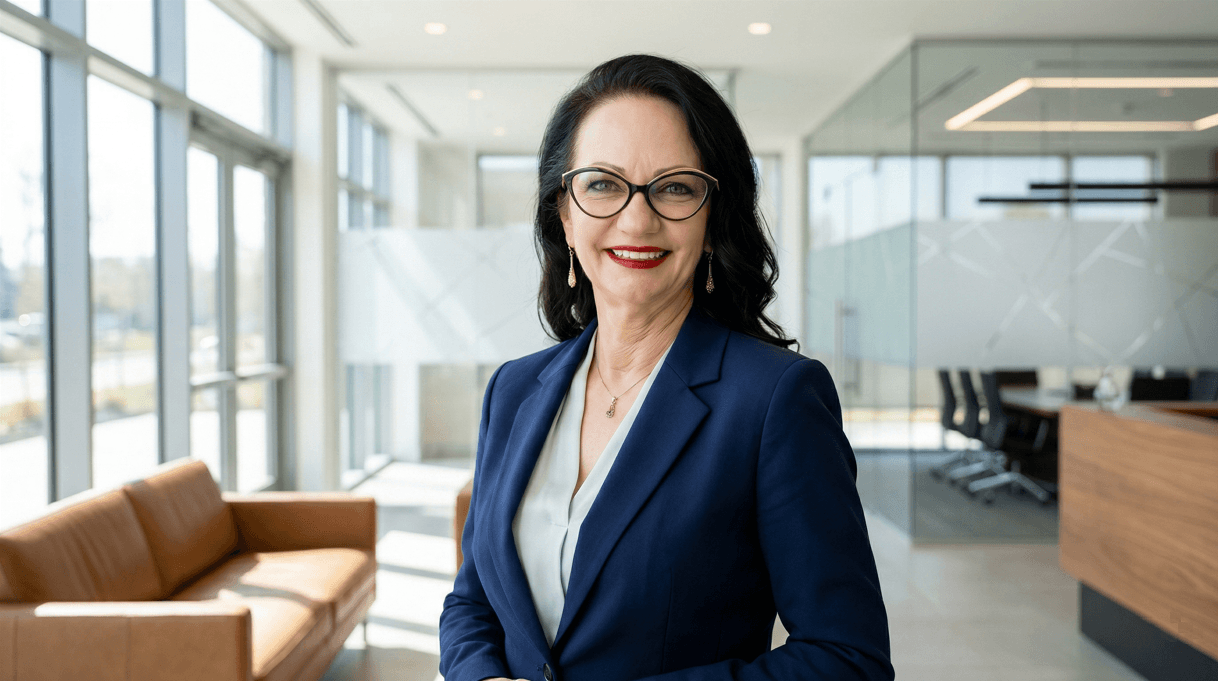
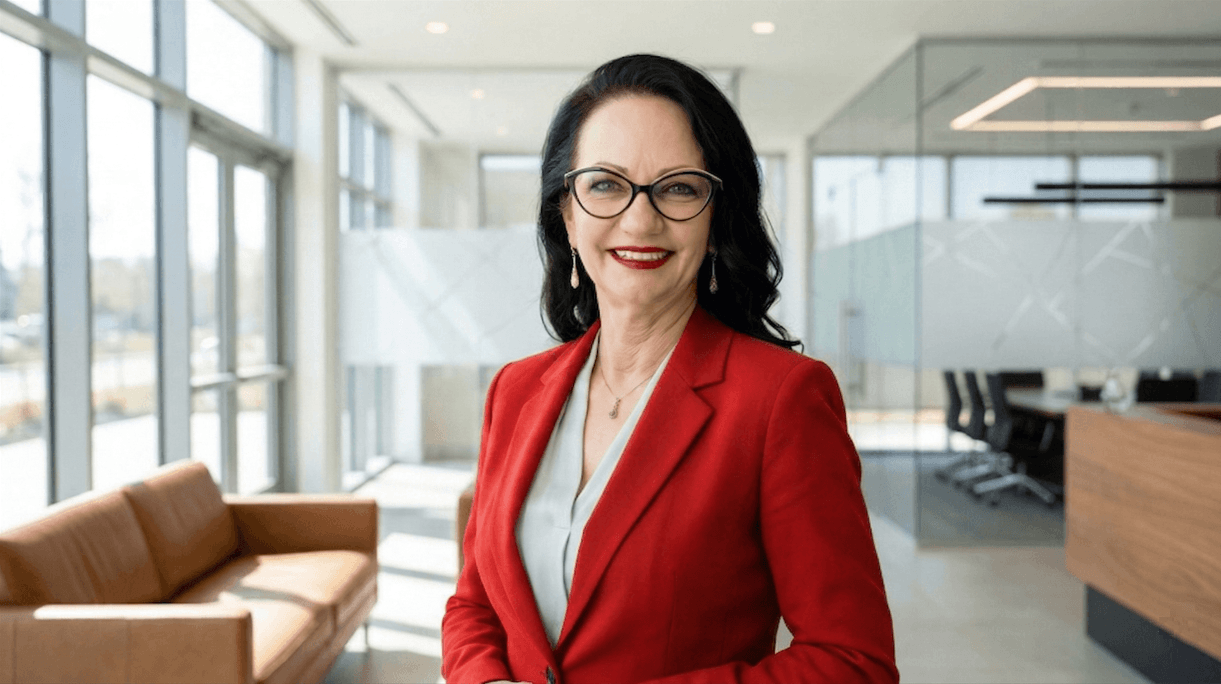
feat: apply Miralive brand colors and add hero images to all pages

diff --git a/app/components/LogoSvg.vue b/app/components/LogoSvg.vue
@@ -1,0 +1,56 @@
+<script setup lang="ts">
+interface Props {
+  size?: 'sm' | 'md' | 'lg'
+}
+
+withDefaults(defineProps<Props>(), {
+  size: 'md',
+})
+
+const sizeClasses: Record<string, string> = {
+  sm: 'h-7',
+  md: 'h-10',
+  lg: 'h-12',
+}
+</script>
+
+<template>
+  <!-- Inline SVG logo — fills adapt via CSS custom properties for dark mode -->
+  <svg
+    viewBox="0 0 320 80"
+    xmlns="http://www.w3.org/2000/svg"
+    class="w-auto"
+    :class="sizeClasses[size]"
+    aria-label="Miralive Ubezpieczenia"
+    role="img"
+  >
+    <!-- Sygnatura: trzy pasy marki -->
+    <rect x="10" y="15" width="10" height="50" rx="1.5" fill="#E31E24" />
+    <rect x="26" y="15" width="10" height="50" rx="1.5" fill="var(--text)" />
+    <rect x="42" y="15" width="10" height="50" rx="1.5" fill="var(--text-muted)" />
+    <!-- Logotyp: MIRALIVE -->
+    <text
+      x="68"
+      y="46"
+      font-family="Segoe UI, Roboto, Helvetica, Arial, sans-serif"
+      font-weight="700"
+      font-size="36"
+      letter-spacing="-0.5"
+      fill="var(--text)"
+    >
+      MIRA<tspan fill="#E31E24">LIVE</tspan>
+    </text>
+    <!-- Tagline: UBEZPIECZENIA -->
+    <text
+      x="70"
+      y="66"
+      font-family="Segoe UI, Roboto, Helvetica, Arial, sans-serif"
+      font-weight="400"
+      font-size="13"
+      letter-spacing="4"
+      fill="var(--text-muted)"
+    >
+      UBEZPIECZENIA
+    </text>
+  </svg>
+</template>

diff --git a/app/assets/css/main.css b/app/assets/css/main.css
@@ -6,31 +6,31 @@
 
 /* === LIGHT MODE (default) === */
 :root {
-  /* Brand: Navy #1E3A5F — contrast on white ~8.5:1 ✓ WCAG AA */
-  --brand: #1E3A5F;
-  --brand-hover: #152D4A;
-  --brand-light: #5B8DB8;
-  --brand-subtle: #EBF2F8;
+  /* Brand: Miralive Red #E31E24 — contrast on white ~5.0:1 ✓ WCAG AA */
+  --brand: #E31E24;
+  --brand-hover: #C41A1F;
+  --brand-light: #F05055;
+  --brand-subtle: #FEF2F2;
   --bg: #FFFFFF;
-  --bg-alt: #F1F5F9;
+  --bg-alt: #F8F8F8;
   --card: #FFFFFF;
-  --card-border: #E2E8F0;
-  --nav-border: #E2E8F0;
-  --text: #0F172A;
-  --text-muted: #475569;
+  --card-border: #E8E8E8;
+  --nav-border: #E8E8E8;
+  --text: #1A1A1A;
+  --text-muted: #555555;
 }
 
 .dark {
-  /* Brand light on #121212 — contrast ~5.2:1 ✓ WCAG AA */
-  --brand: #5B8DB8;
-  --brand-hover: #4A7DA8;
+  /* Brand lighter red on #121212 — contrast ~5.2:1 ✓ WCAG AA */
+  --brand: #F05055;
+  --brand-hover: #E31E24;
   --bg: #121212;
   --bg-alt: #1C1C1C;
   --card: #1E1E1E;
   --card-border: #2D2D2D;
   --nav-border: #2D2D2D;
-  --text: #F1F5F9;
-  --text-muted: #94A3B8;
+  --text: #F1F1F1;
+  --text-muted: #999999;
 }
 
 /* === TAILWIND THEME MAPPING === */
@@ -54,13 +54,13 @@
 /* Hero mesh gradient */
 .hero-mesh {
   background:
-    radial-gradient(ellipse 80% 50% at 50% -20%, rgba(30, 58, 95, 0.12), transparent),
-    radial-gradient(ellipse 60% 40% at 80% 50%, rgba(30, 58, 95, 0.06), transparent);
+    radial-gradient(ellipse 80% 50% at 50% -20%, rgba(227, 30, 36, 0.07), transparent),
+    radial-gradient(ellipse 60% 40% at 80% 50%, rgba(51, 51, 51, 0.04), transparent);
 }
 .dark .hero-mesh {
   background:
-    radial-gradient(ellipse 80% 50% at 50% -20%, rgba(91, 141, 184, 0.1), transparent),
-    radial-gradient(ellipse 60% 40% at 80% 50%, rgba(91, 141, 184, 0.05), transparent);
+    radial-gradient(ellipse 80% 50% at 50% -20%, rgba(240, 80, 85, 0.08), transparent),
+    radial-gradient(ellipse 60% 40% at 80% 50%, rgba(153, 153, 153, 0.04), transparent);
 }
 
 /* Glassmorphism nav */
@@ -76,22 +76,22 @@
 
 /* Icon glass button */
 .icon-glass {
-  background: rgba(30, 58, 95, 0.06);
+  background: rgba(227, 30, 36, 0.07);
   border-radius: 9999px;
   display: flex;
   align-items: center;
   justify-content: center;
 }
 .dark .icon-glass {
-  background: rgba(91, 141, 184, 0.1);
+  background: rgba(240, 80, 85, 0.12);
 }
 
 /* Brand glow shadow on CTA */
 .shadow-glow {
-  box-shadow: 0 4px 20px rgba(30, 58, 95, 0.25);
+  box-shadow: 0 4px 20px rgba(227, 30, 36, 0.28);
 }
 .dark .shadow-glow {
-  box-shadow: 0 4px 20px rgba(91, 141, 184, 0.2);
+  box-shadow: 0 4px 20px rgba(240, 80, 85, 0.22);
 }
 
 /* Pulsing dot (open/closed status) */
@@ -120,15 +120,15 @@
   animation: pulse-ring 2.5s ease-in-out infinite;
 }
 @keyframes pulse-ring {
-  0%, 100% { box-shadow: 0 0 0 0 rgba(30, 58, 95, 0.3); }
-  50% { box-shadow: 0 0 0 8px rgba(30, 58, 95, 0); }
+  0%, 100% { box-shadow: 0 0 0 0 rgba(227, 30, 36, 0.35); }
+  50% { box-shadow: 0 0 0 8px rgba(227, 30, 36, 0); }
 }
 .dark .pulse-brand {
   animation: pulse-ring-dark 2.5s ease-in-out infinite;
 }
 @keyframes pulse-ring-dark {
-  0%, 100% { box-shadow: 0 0 0 0 rgba(91, 141, 184, 0.3); }
-  50% { box-shadow: 0 0 0 8px rgba(91, 141, 184, 0); }
+  0%, 100% { box-shadow: 0 0 0 0 rgba(240, 80, 85, 0.35); }
+  50% { box-shadow: 0 0 0 8px rgba(240, 80, 85, 0); }
 }
 
 /* Infinite marquee scroll */

diff --git a/server/api/contact.post.ts b/server/api/contact.post.ts
@@ -30,16 +30,16 @@ export default defineEventHandler(async (event) => {
   <meta name="viewport" content="width=device-width, initial-scale=1.0" />
   <title>Nowe zapytanie — Miralive</title>
 </head>
-<body style="margin:0;padding:0;background:#F1F5F9;font-family:'Inter',Arial,sans-serif;">
-  <table width="100%" cellpadding="0" cellspacing="0" style="background:#F1F5F9;padding:40px 20px;">
+<body style="margin:0;padding:0;background:#F5F5F5;font-family:'Inter',Arial,sans-serif;">
+  <table width="100%" cellpadding="0" cellspacing="0" style="background:#F5F5F5;padding:40px 20px;">
     <tr>
       <td align="center">
         <table width="600" cellpadding="0" cellspacing="0" style="max-width:600px;width:100%;">
 
           <!-- Header -->
           <tr>
-            <td style="background:#1E3A5F;border-radius:16px 16px 0 0;padding:32px 40px;text-align:center;">
-              <p style="margin:0;font-size:13px;color:#5B8DB8;letter-spacing:0.08em;text-transform:uppercase;font-weight:600;">Miralive</p>
+            <td style="background:#E31E24;border-radius:16px 16px 0 0;padding:32px 40px;text-align:center;">
+              <p style="margin:0;font-size:13px;color:rgba(255,255,255,0.75);letter-spacing:0.08em;text-transform:uppercase;font-weight:600;">Miralive</p>
               <h1 style="margin:8px 0 0;font-size:22px;font-weight:800;color:#FFFFFF;letter-spacing:-0.02em;">
                 Nowe zapytanie ze strony
               </h1>
@@ -55,38 +55,38 @@ export default defineEventHandler(async (event) => {
               </p>
 
               <!-- Details table -->
-              <table width="100%" cellpadding="0" cellspacing="0" style="border-radius:12px;overflow:hidden;border:1px solid #E2E8F0;">
-                <tr style="background:#F1F5F9;">
-                  <td style="padding:14px 20px;font-size:12px;font-weight:700;color:#1E3A5F;letter-spacing:0.06em;text-transform:uppercase;width:35%;border-bottom:1px solid #E2E8F0;">
+              <table width="100%" cellpadding="0" cellspacing="0" style="border-radius:12px;overflow:hidden;border:1px solid #E8E8E8;">
+                <tr style="background:#F8F8F8;">
+                  <td style="padding:14px 20px;font-size:12px;font-weight:700;color:#333333;letter-spacing:0.06em;text-transform:uppercase;width:35%;border-bottom:1px solid #E8E8E8;">
                     Imię i nazwisko
                   </td>
-                  <td style="padding:14px 20px;font-size:15px;color:#0F172A;font-weight:600;border-bottom:1px solid #E2E8F0;">
+                  <td style="padding:14px 20px;font-size:15px;color:#1A1A1A;font-weight:600;border-bottom:1px solid #E8E8E8;">
                     ${name}
                   </td>
                 </tr>
                 <tr>
-                  <td style="padding:14px 20px;font-size:12px;font-weight:700;color:#1E3A5F;letter-spacing:0.06em;text-transform:uppercase;background:#F1F5F9;border-bottom:1px solid #E2E8F0;">
+                  <td style="padding:14px 20px;font-size:12px;font-weight:700;color:#333333;letter-spacing:0.06em;text-transform:uppercase;background:#F8F8F8;border-bottom:1px solid #E8E8E8;">
                     Telefon
                   </td>
-                  <td style="padding:14px 20px;border-bottom:1px solid #E2E8F0;">
-                    <a href="tel:${phone.replace(/\s/g, '')}" style="font-size:15px;color:#1E3A5F;font-weight:700;text-decoration:none;">${phone}</a>
+                  <td style="padding:14px 20px;border-bottom:1px solid #E8E8E8;">
+                    <a href="tel:${phone.replace(/\s/g, '')}" style="font-size:15px;color:#E31E24;font-weight:700;text-decoration:none;">${phone}</a>
                   </td>
                 </tr>
                 ${email ? `
-                <tr style="background:#F1F5F9;">
-                  <td style="padding:14px 20px;font-size:12px;font-weight:700;color:#1E3A5F;letter-spacing:0.06em;text-transform:uppercase;border-bottom:1px solid #E2E8F0;">
+                <tr style="background:#F8F8F8;">
+                  <td style="padding:14px 20px;font-size:12px;font-weight:700;color:#333333;letter-spacing:0.06em;text-transform:uppercase;border-bottom:1px solid #E8E8E8;">
                     Email
                   </td>
-                  <td style="padding:14px 20px;border-bottom:1px solid #E2E8F0;">
-                    <a href="mailto:${email}" style="font-size:15px;color:#1E3A5F;font-weight:600;text-decoration:none;">${email}</a>
+                  <td style="padding:14px 20px;border-bottom:1px solid #E8E8E8;">
+                    <a href="mailto:${email}" style="font-size:15px;color:#E31E24;font-weight:600;text-decoration:none;">${email}</a>
                   </td>
                 </tr>` : ''}
                 ${message ? `
                 <tr>
-                  <td style="padding:14px 20px;font-size:12px;font-weight:700;color:#1E3A5F;letter-spacing:0.06em;text-transform:uppercase;background:#F1F5F9;vertical-align:top;">
+                  <td style="padding:14px 20px;font-size:12px;font-weight:700;color:#333333;letter-spacing:0.06em;text-transform:uppercase;background:#F8F8F8;vertical-align:top;">
                     Wiadomość
                   </td>
-                  <td style="padding:14px 20px;font-size:15px;color:#0F172A;line-height:1.7;white-space:pre-wrap;">${message}</td>
+                  <td style="padding:14px 20px;font-size:15px;color:#1A1A1A;line-height:1.7;white-space:pre-wrap;">${message}</td>
                 </tr>` : ''}
               </table>
 
@@ -95,7 +95,7 @@ export default defineEventHandler(async (event) => {
                 <tr>
                   <td align="center">
                     <a href="tel:${phone.replace(/\s/g, '')}"
-                      style="display:inline-block;background:#1E3A5F;color:#FFFFFF;font-size:15px;font-weight:700;text-decoration:none;padding:14px 32px;border-radius:12px;letter-spacing:0.01em;">
+                      style="display:inline-block;background:#E31E24;color:#FFFFFF;font-size:15px;font-weight:700;text-decoration:none;padding:14px 32px;border-radius:12px;letter-spacing:0.01em;">
                       Zadzwoń do ${name.split(' ')[0]}
                     </a>
                   </td>
@@ -107,10 +107,10 @@ export default defineEventHandler(async (event) => {
 
           <!-- Footer -->
           <tr>
-            <td style="background:#F1F5F9;border:1px solid #E2E8F0;border-top:none;border-radius:0 0 16px 16px;padding:24px 40px;text-align:center;">
-              <p style="margin:0;font-size:12px;color:#94A3B8;line-height:1.6;">
+            <td style="background:#F5F5F5;border:1px solid #E8E8E8;border-top:none;border-radius:0 0 16px 16px;padding:24px 40px;text-align:center;">
+              <p style="margin:0;font-size:12px;color:#999999;line-height:1.6;">
                 Wiadomość wysłana przez formularz na
-                <a href="https://miralive.pl" style="color:#1E3A5F;text-decoration:none;font-weight:600;">miralive.pl</a>
+                <a href="https://miralive.pl" style="color:#E31E24;text-decoration:none;font-weight:600;">miralive.pl</a>
                 &nbsp;·&nbsp; ul. Spółdzielcza 3, 87-810 Włocławek
               </p>
             </td>

diff --git a/app/pages/kontakt.vue b/app/pages/kontakt.vue
@@ -71,15 +71,28 @@ const submitForm = async () => {
     <!-- Header -->
     <section class="bg-page-alt py-12 md:py-16">
       <Container>
-        <div class="text-center max-w-3xl mx-auto">
-          <Badge color="brand" class="mb-4">Kontakt</Badge>
-          <h1 class="text-3xl md:text-4xl lg:text-5xl font-extrabold tracking-tight text-ink mb-4">
-            Skontaktuj się ze mną
-          </h1>
-          <p class="text-lg text-ink-muted leading-relaxed">
-            Zadzwoń, napisz lub odwiedź mnie osobiście. Bezpłatna konsultacja ubezpieczeniowa
-            — przeanalizuję Twoje potrzeby i dobiorę najlepszą ochronę.
-          </p>
+        <div class="grid grid-cols-1 lg:grid-cols-2 gap-12 items-center">
+          <div>
+            <Badge color="brand" class="mb-4">Kontakt</Badge>
+            <h1 class="text-3xl md:text-4xl lg:text-5xl font-extrabold tracking-tight text-ink mb-4">
+              Skontaktuj się ze mną
+            </h1>
+            <p class="text-lg text-ink-muted leading-relaxed">
+              Zadzwoń, napisz lub odwiedź mnie osobiście. Bezpłatna konsultacja ubezpieczeniowa
+              — przeanalizuję Twoje potrzeby i dobiorę najlepszą ochronę.
+            </p>
+          </div>
+          <div class="flex justify-center lg:justify-end">
+            <NuxtImg
+              src="/images/kontakt.png"
+              alt="Mirosława Poniatowska — kontakt Miralive"
+              width="480"
+              height="560"
+              class="rounded-2xl shadow-xl w-full max-w-xs lg:max-w-sm object-cover object-top"
+              loading="eager"
+              format="webp"
+            />
+          </div>
         </div>
       </Container>
     </section>

diff --git a/app/pages/uslugi.vue b/app/pages/uslugi.vue
@@ -119,15 +119,28 @@ const serviceDetails: Record<string, {
     <!-- Header -->
     <section class="bg-page-alt py-12 md:py-16">
       <Container>
-        <div class="text-center max-w-3xl mx-auto">
-          <Badge color="brand" class="mb-4">Oferta</Badge>
-          <h1 class="text-3xl md:text-4xl lg:text-5xl font-extrabold tracking-tight text-ink mb-4">
-            Usługi ubezpieczeniowe
-          </h1>
-          <p class="text-lg text-ink-muted leading-relaxed">
-            Oferuję pełen zakres ubezpieczeń dla osób prywatnych, firm i zawodów medycznych.
-            Porównuję oferty od {{ business.partners.length }}+ towarzystw, aby znaleźć najlepszą cenę i zakres.
-          </p>
+        <div class="grid grid-cols-1 lg:grid-cols-2 gap-12 items-center">
+          <div>
+            <Badge color="brand" class="mb-4">Oferta</Badge>
+            <h1 class="text-3xl md:text-4xl lg:text-5xl font-extrabold tracking-tight text-ink mb-4">
+              Usługi ubezpieczeniowe
+            </h1>
+            <p class="text-lg text-ink-muted leading-relaxed">
+              Oferuję pełen zakres ubezpieczeń dla osób prywatnych, firm i zawodów medycznych.
+              Porównuję oferty od {{ business.partners.length }}+ towarzystw, aby znaleźć najlepszą cenę i zakres.
+            </p>
+          </div>
+          <div class="flex justify-center lg:justify-end">
+            <NuxtImg
+              src="/images/uslugi.png"
+              alt="Mirosława Poniatowska z klientami — usługi ubezpieczeniowe Miralive"
+              width="480"
+              height="560"
+              class="rounded-2xl shadow-xl w-full max-w-xs lg:max-w-sm object-cover object-top"
+              loading="eager"
+              format="webp"
+            />
+          </div>
         </div>
       </Container>
     </section>

diff --git a/app/layouts/default.vue b/app/layouts/default.vue
@@ -36,9 +36,8 @@ onMounted(() => {
       <Container>
         <nav class="flex items-center justify-between h-16 lg:h-20">
           <!-- Logo -->
-          <NuxtLink to="/" class="flex items-center gap-2 font-bold text-xl text-brand transition-all duration-300 hover:opacity-80">
-            <Icon name="lucide:shield-check" class="w-7 h-7" />
-            <span class="tracking-tight">{{ business.name }}</span>
+          <NuxtLink to="/" class="flex items-center transition-all duration-300 hover:opacity-80" aria-label="Miralive — strona główna">
+            <LogoSvg size="md" />
           </NuxtLink>
 
           <!-- Desktop nav -->
@@ -127,9 +126,8 @@ onMounted(() => {
           <div class="grid grid-cols-1 md:grid-cols-2 lg:grid-cols-4 gap-8 lg:gap-12">
             <!-- Brand -->
             <div class="lg:col-span-1">
-              <NuxtLink to="/" class="flex items-center gap-2 font-bold text-lg text-brand mb-4">
-                <Icon name="lucide:shield-check" class="w-6 h-6" />
-                <span>{{ business.name }}</span>
+              <NuxtLink to="/" class="flex items-center mb-4 hover:opacity-80 transition-opacity duration-300" aria-label="Miralive — strona główna">
+                <LogoSvg size="sm" />
               </NuxtLink>
               <p class="text-sm text-ink-muted leading-relaxed">
                 {{ business.description }}

diff --git a/app/pages/o-mnie.vue b/app/pages/o-mnie.vue
@@ -26,13 +26,13 @@ useSeoMeta({
               Prowadzę Multiagencję {{ business.legalName }} we {{ business.address.city }}.
             </p>
           </div>
-          <div class="flex justify-center">
+          <div class="flex justify-center lg:justify-end w-full">
             <NuxtImg
               src="/images/poznajmy-sie.png"
               alt="Mirosława Poniatowska — ekspert ubezpieczeniowy Miralive"
-              width="480"
-              height="340"
-              class="rounded-2xl shadow-xl object-cover"
+              width="640"
+              height="360"
+              class="rounded-2xl shadow-xl w-full object-cover"
               loading="eager"
               format="webp"
             />

diff --git a/layers/core/composables/useBusinessData.ts b/layers/core/composables/useBusinessData.ts
@@ -115,7 +115,7 @@ export const useBusinessData = (): BusinessData => {
       googleMaps: 'https://maps.app.goo.gl/mUaogKHgtAXYgMvz6?g_st=aw',
     },
     brand: {
-      primaryColor: '#1E3A5F',
+      primaryColor: '#E31E24',
       font: 'Inter',
     },
     trustSignals: [